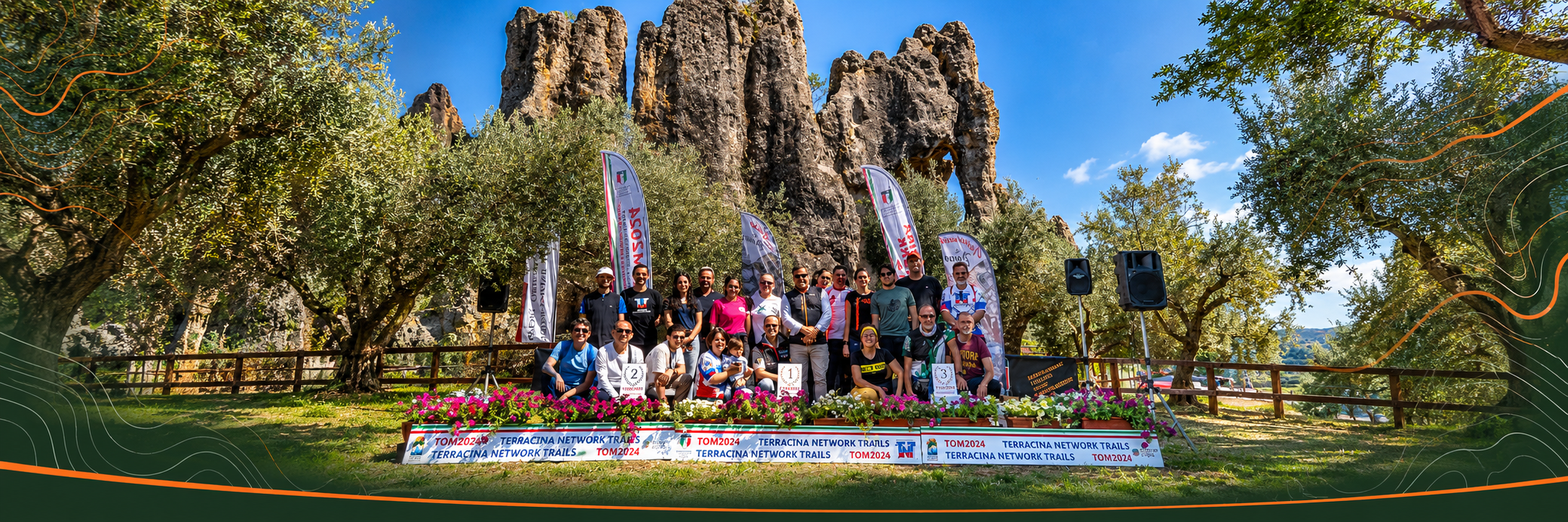
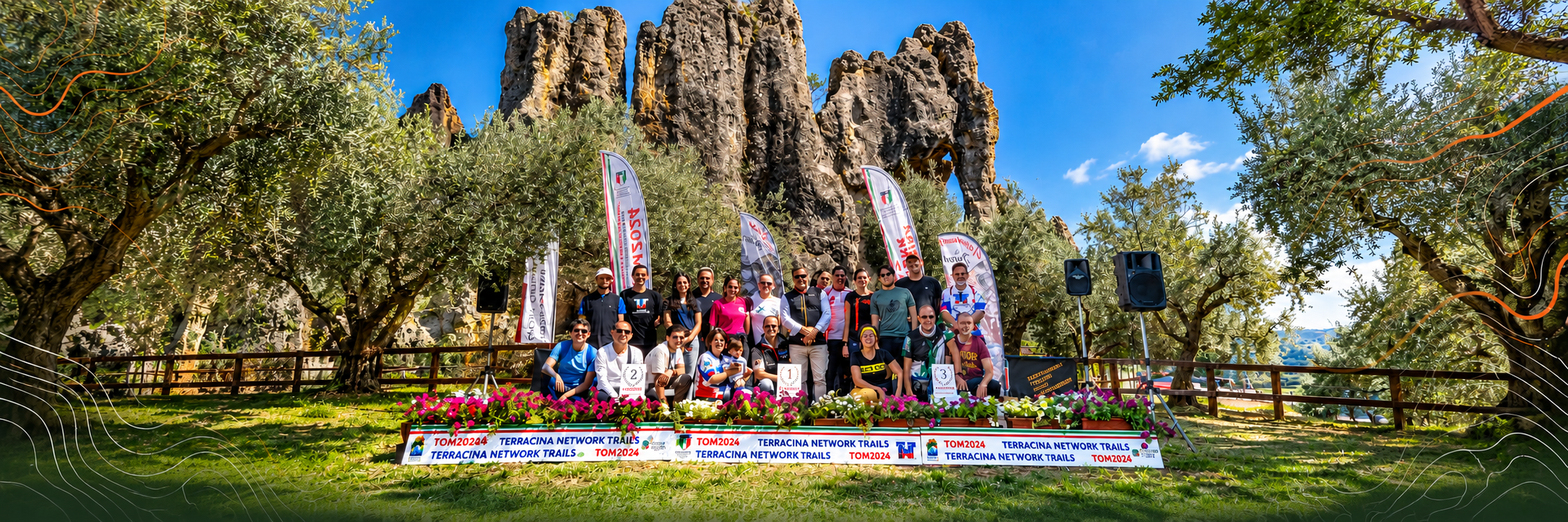
dsdsd

diff --git a/_posts/2026-10-11-orientarsi-nel-territorio.md b/_posts/2026-10-11-orientarsi-nel-territorio.md
@@ -3,7 +3,7 @@ layout: article
 title: "Orientarsi significa imparare a leggere il territorio"
 date: 2026-10-11
 category: "Orienteering"
-subtitle: "Carta, bussola e osservazione: uno sport che trasforma ogni percorso in una scoperta."
+subtitle: ""
 image: "/assets/paesaggio.jpg"
 ---
 
@@ -13,10 +13,10 @@ Scrivi qui una breve descrizione del video.
 ## Guarda il video
 
 <iframe width="560" height="315"
-src="https://youtube.com/shorts/OyghgqOrTD4?si=ke7KHkcCI9lJM3tB"
+src="https://www.youtube-nocookie.com/embed//shorts/OyghgqOrTD4?si=ke7KHkcCI9lJM3tB"
 title="Titolo del video"
 allowfullscreen></iframe>
 
-[Guarda il video su YouTube](https://youtube.com/shorts/OyghgqOrTD4?si=ke7KHkcCI9lJM3tB)
+[Guarda il video su YouTube](https://www.youtube-nocookie.com/embed/)
 
 
